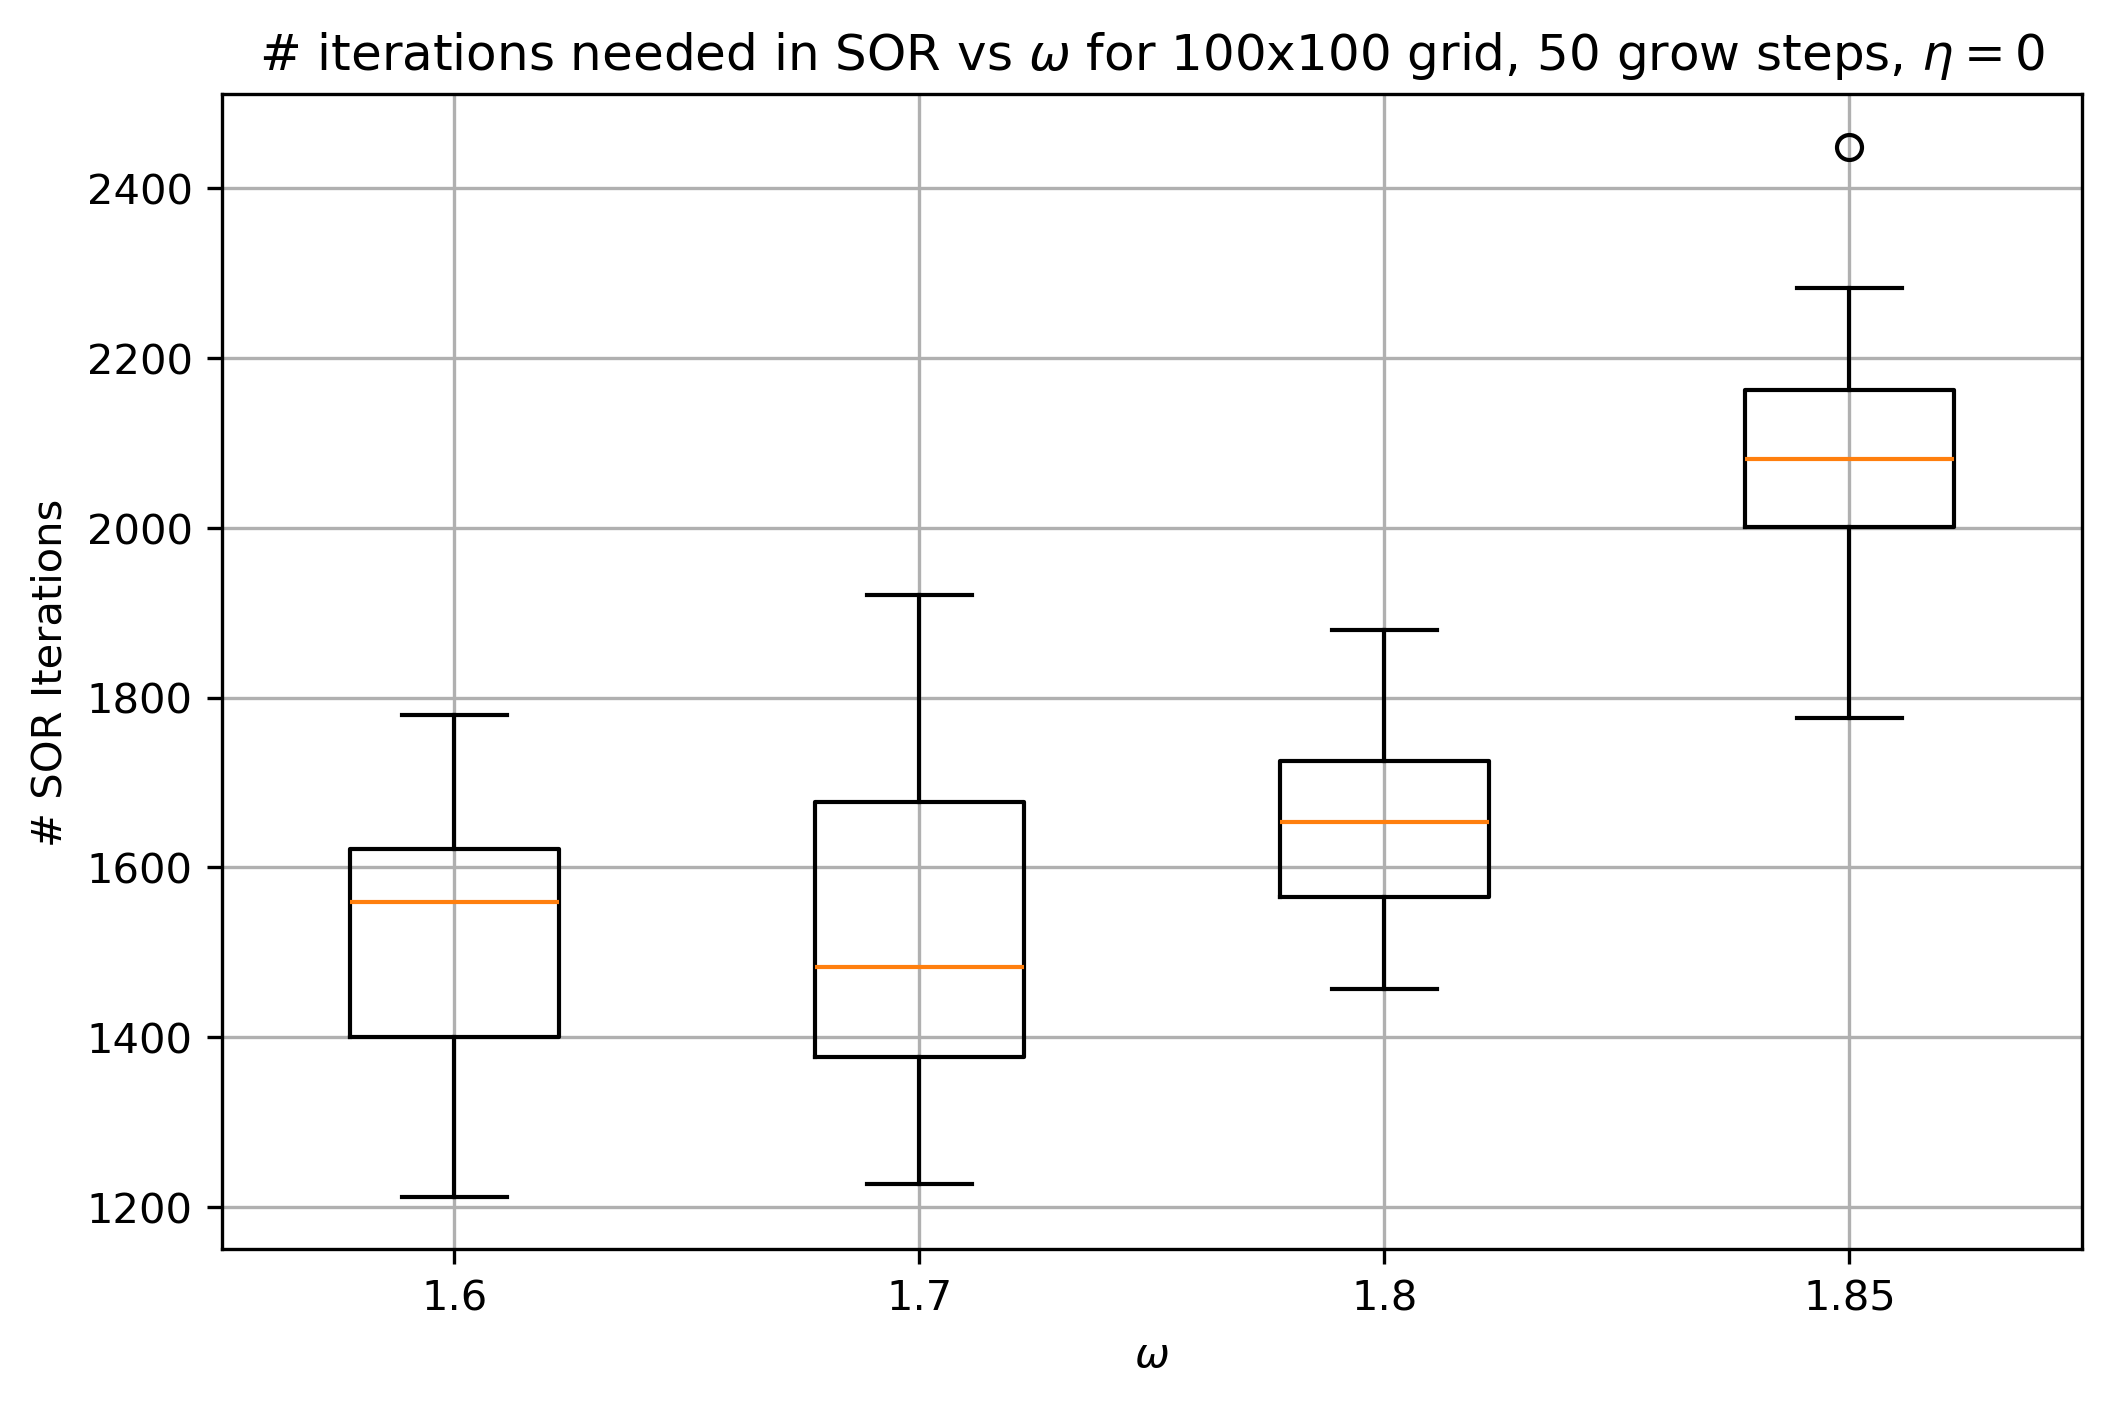
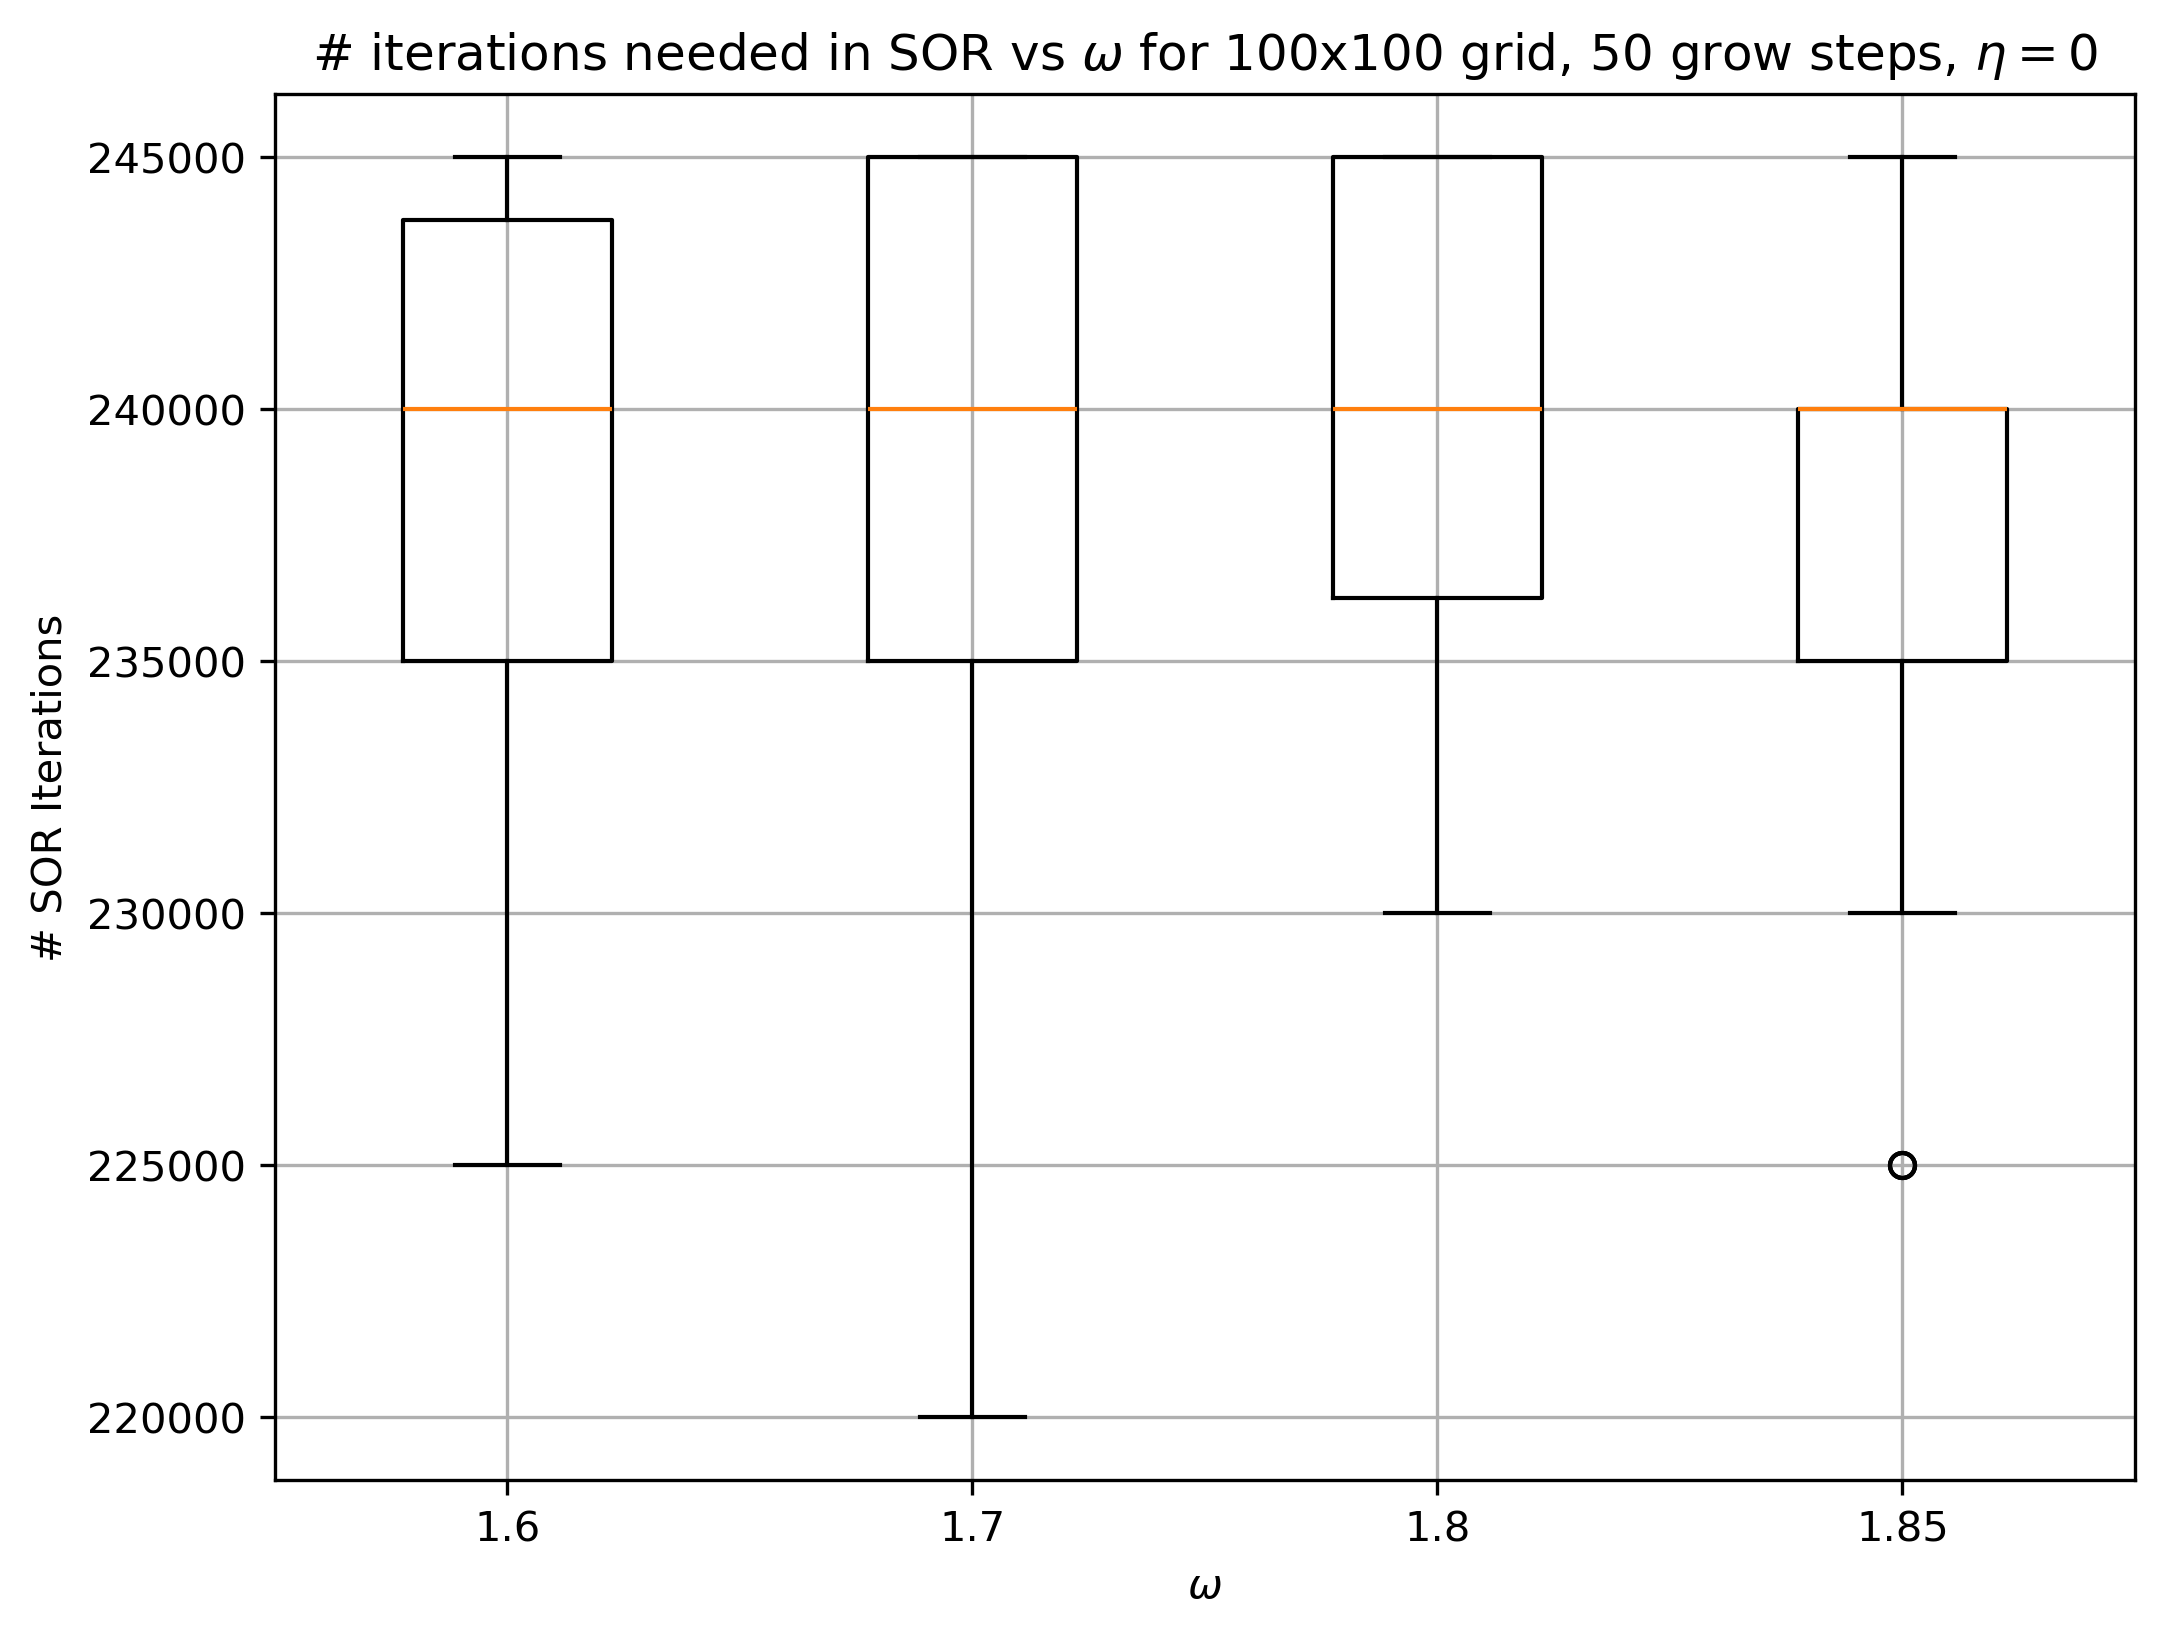
optimization didn't work out

diff --git a/modules/dla_algorithm.py b/modules/dla_algorithm.py
@@ -3,7 +3,6 @@ from typing import Set, Tuple
 import matplotlib.pyplot as plt
 import numpy as np
 from joblib import Parallel, delayed
-from numba import njit
 
 from modules.config import CLUSTER_VALUE_DLA, CONCENTRATION_VALUE, DPI, FIG_SIZE
 from modules.grid import initialize_grid
@@ -111,21 +110,26 @@ class Diffusion:
         assert isinstance(neighbours, set)
         return neighbours
 
-    def get_perimeter_size(self):
+    def get_perimeter_size(self) -> int:
+        """Get the size of the perimeter of the cluster"""
         return len(self.perimeter)
 
-    def get_width(self):
+    def get_width(self) -> int:
+        """Get the width of the cluster"""
         return max([coords[1] for coords in self.cluster]) - min(
             [coords[1] for coords in self.cluster]
         )
 
-    def get_height(self):
+    def get_height(self) -> int:
+        """Get the height of the cluster"""
         return max([coords[0] for coords in self.cluster]) - min(
             [coords[0] for coords in self.cluster]
         )
 
-    def plot(self, eta: float = 1, save: bool = False, filename: str = "dla.png"):
-        fig, ax = plt.subplots()
+    def plot(
+        self, eta: float = 1, save: bool = False, filename: str = "dla.png"
+    ) -> None:
+        _, ax = plt.subplots()
         im = ax.imshow(self.grid, cmap="Blues")
         plt.colorbar(im)
 
@@ -141,9 +145,17 @@ class Diffusion:
 
         plt.show()
 
-    def grow_cluster(self, omega: float = 1.8):
+    def grow_cluster(self, omega: float = 1.8) -> int:
         """
         Grow the cluster by adding a random point from the perimeter
+
+        Params:
+        -------
+        - omega: float, relaxation factor for the SOR method
+
+        Returns:
+        --------
+        - sor_iters: int, number of iterations needed for the SOR method
         """
         result_sor, sor_iters = successive_over_relaxation(
             self.grid, self.cluster, omega
@@ -175,123 +187,13 @@ class Diffusion:
 
         return sor_iters
 
-    def run_simulation(self, steps: int = 1000, omega: float = 1.8):
+    def run_simulation(self, steps: int = 1000, omega: float = 1.8) -> int:
         """Runs the DLA simulation for a given number of steps."""
         sor_iters = 0
-        for i in range(steps):
+        for _ in range(steps):
             sor_iters += self.grow_cluster(omega)
 
         return sor_iters
-
-
-@njit
-def _first_column(
-    N: int, grid: np.ndarray, cluster: Set[Tuple[int, int]], delta: float, omega: float
-) -> float:
-    """
-    Update the first column of the grid
-
-    Params:
-    -------
-    - N (int): The size of the grid
-    - grid (np.ndarray): The spatial grid
-    - cluster (Set[Tuple[int, int]]): The coordinates of the cluster
-    - delta (float): The current value of delta
-    - omega (float): The relaxation factor
-
-    Returns:
-    --------
-    - delta (float): The updated value
-    """
-    for i in range(1, N):
-        if (i, 0) in cluster:
-            continue
-
-        old_cell = grid[i][0].copy()
-        grid[i][0] = (
-            omega / 4 * (grid[i + 1][0] + grid[i - 1][0] + grid[i][1] + grid[i][N - 1])
-            + (1 - omega) * grid[i][0]
-        )
-
-        if np.abs(grid[i][0] - old_cell) > delta:
-            delta = np.abs(grid[i][0] - old_cell)
-
-    assert delta >= 0
-    return delta
-
-
-@njit
-def _center_columns(
-    N: int, grid: np.ndarray, cluster: Set[Tuple[int, int]], delta: float, omega: float
-) -> float:
-    """
-    Update the center columns of the grid
-
-    Params:
-    -------
-    - N (int): The size of the grid
-    - grid (np.ndarray): The spatial grid
-    - cluster (Set[Tuple[int, int]]): The coordinates of the cluster
-    - delta (float): The current value of delta
-    - omega (float): The relaxation factor
-
-    Returns:
-    --------
-    - delta (float): The updated value
-    """
-    for j in range(1, N):
-        for i in range(1, N):
-            if (i, j) in cluster:
-                continue
-
-            old_cell = grid[i][j].copy()
-            grid[i][j] = (
-                omega
-                / 4
-                * (grid[i + 1][j] + grid[i - 1][j] + grid[i][j + 1] + grid[i][j - 1])
-                + (1 - omega) * grid[i][j]
-            )
-
-            delta = max(delta, np.abs(grid[i][j] - old_cell))
-
-    assert delta >= 0
-    return delta
-
-
-@njit
-def _last_column(
-    N: int, grid: np.ndarray, cluster: Set[Tuple[int, int]], delta: float, omega: float
-) -> float:
-    """
-    Update the last column of the grid
-
-    Params:
-    -------
-    - N (int): The size of the grid
-    - grid (np.ndarray): The spatial grid
-    - cluster (Set[Tuple[int, int]]): The coordinates of the cluster
-    - delta (float): The current value of delta
-    - omega (float): The relaxation factor
-
-    Returns:
-    --------
-    - delta (float): The updated value
-    """
-    for i in range(1, N):
-        if (i, N) in cluster:
-            continue
-
-        old_cell = grid[i][N].copy()
-        grid[i][N] = (
-            omega / 4 * (grid[i + 1][N] + grid[i - 1][N] + grid[i][0] + grid[i][N - 1])
-            + (1 - omega) * grid[i][N]
-        )
-
-        if np.abs(grid[i][N] - old_cell) > delta:
-            delta = np.abs(grid[i][N] - old_cell)
-
-    assert delta >= 0
-    return delta
 
 
 def successive_over_relaxation(
@@ -326,9 +228,57 @@ def successive_over_relaxation(
     while delta > epsilon and k < max_iterations:
         delta = 0
 
-        delta = _first_column(N, grid, cluster, delta, omega)
-        delta = _center_columns(N, grid, cluster, delta, omega)
-        delta = _last_column(N, grid, cluster, delta, omega)
+        # First column
+        for i in range(1, N):
+            if (i, 0) in cluster:
+                continue
+
+            old_cell = grid[i][0].copy()
+            grid[i][0] = (
+                omega
+                / 4
+                * (grid[i + 1][0] + grid[i - 1][0] + grid[i][1] + grid[i][N - 1])
+                + (1 - omega) * grid[i][0]
+            )
+
+            if np.abs(grid[i][0] - old_cell) > delta:
+                delta = np.abs(grid[i][0] - old_cell)
+
+        for j in range(1, N):
+            for i in range(1, N):
+                if (i, j) in cluster:
+                    continue
+
+                old_cell = grid[i][j].copy()
+                grid[i][j] = (
+                    omega
+                    / 4
+                    * (
+                        grid[i + 1][j]
+                        + grid[i - 1][j]
+                        + grid[i][j + 1]
+                        + grid[i][j - 1]
+                    )
+                    + (1 - omega) * grid[i][j]
+                )
+
+                delta = max(delta, np.abs(grid[i][j] - old_cell))
+
+        # Last column
+        for i in range(1, N):
+            if (i, N) in cluster:
+                continue
+
+            old_cell = grid[i][N].copy()
+            grid[i][N] = (
+                omega
+                / 4
+                * (grid[i + 1][N] + grid[i - 1][N] + grid[i][0] + grid[i][N - 1])
+                + (1 - omega) * grid[i][N]
+            )
+
+            if np.abs(grid[i][N] - old_cell) > delta:
+                delta = np.abs(grid[i][N] - old_cell)
 
         k += 1
 
@@ -354,19 +304,18 @@ def simulate_different_omegas(
     growth_steps = 50
 
     results = np.zeros(len(omegas))
-    for j, omega in enumerate(omegas):
-        diffusion = Diffusion(grid_size, eta, initial_point="bottom")
-
-        results[j] = diffusion.run_simulation(growth_steps, omega)
-
-    return results
+    for i, omega in enumerate(omegas):
+        diffusion = Diffusion(grid_size, eta)
+        results[i] = diffusion.run_simulation(growth_steps, omega)
+    return np.array(results)
 
 
 def compare_omegas(
     eta: float = 1,
     omegas: list[float] = [1.0, 1.4, 1.8, 1.9],
     num_simulations: int = 20,
-):
+) -> np.ndarray:
+    """Compare the number of iterations needed for different omega values"""
     results = Parallel(n_jobs=-2)(
         delayed(simulate_different_omegas)(eta, omegas) for _ in range(num_simulations)
     )
@@ -376,7 +325,18 @@ def compare_omegas(
 
 def plot_omega_comparison(
     results, omegas, eta, save=False, filename="omega_comparison.png"
-):
+) -> None:
+    """
+    Plot the number of iterations needed for different omega values
+
+    Params:
+    -------
+    - results: np.ndarray, number of iterations needed for each omega
+    - omegas: list[float], list of omega values to test
+    - eta: float, parameter for the probability calculation
+    - save: bool, whether to save the plot
+    - filename: str, name of the file to save the plot
+    """
     plt.figure(figsize=FIG_SIZE)
     plt.boxplot(results, tick_labels=omegas)
     plt.xlabel(r"$\omega$")
